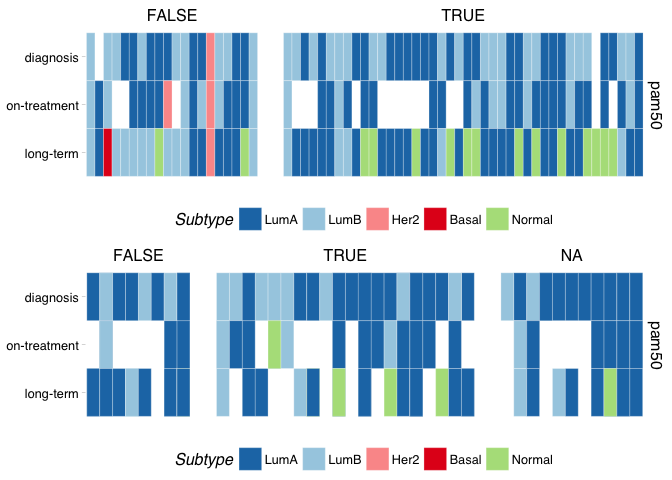
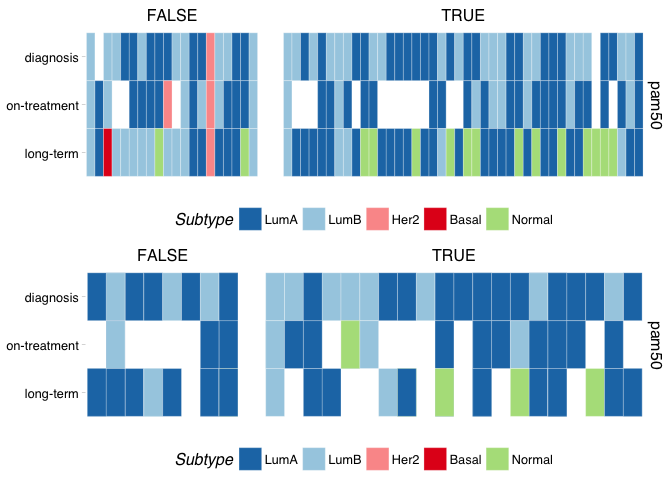
subtyping and unsupervised modifications
mostly just removing NA samples from the analysis

Changed region(s): [[0.125, 0.5, 0.9688, 0.875], [0.8438, 0.5, 0.875, 0.5625]]

diff --git a/georgetown/doc/unsupervised.md b/georgetown/doc/unsupervised.md
@@ -23,8 +23,10 @@ edset$patient_id <- edset$patient.no
 edset$is_dormant <- edset$dorm.group_v4 == "D"
 edset$timepoint <- ifelse(edset$time.point_3cat == 1, "diagnosis", 
                           ifelse(edset$time.point_3cat == 2, "on-treatment", "long-term"))
+edset$days_treated <- edset$days_newinfo
 
-georgeset_affy <- read_rds("../output/final-georgeset-sep-frma-fselect-loess-clin-cb.Rds")
+georgeset_base <- read_rds("../output/final-georgeset-sep-frma-fselect-loess-clin-cb.Rds")
+georgeset_affy <- georgeset_base[, !is.na(georgeset_base$is_dormant)]
 xpr_hgnc <- idReplace(exprs(georgeset_affy), 
                         id.in = "affy_hg_u133_plus_2", 
                         id.out = "hgnc_symbol")
@@ -42,7 +44,7 @@ eset_lst <- list(edset, georgeset)
 
 ``` r
 eset500_lst <- lapply(eset_lst, function(eset){
-                          eset_sub <- eset[, which(eset$timepoint != 'diagnosis')]
+                          eset_sub <- eset[, which(eset$timepoint == 'long-term')]
                           mv500 <- mostVar(exprs(eset_sub), 500) %>% row.names()
                           eset[mv500,]
 })
@@ -51,67 +53,68 @@ do.call(intersect, lapply(eset500_lst, row.names))
 ```
 
     ##   [1] "MUCL1"       "S100P"       "PIP"         "SCGB2A1"     "FOSB"       
-    ##   [6] "SCGB2A2"     "GRIA2"       "CLEC3A"      "HMGCS2"      "NPY1R"      
-    ##  [11] "FOS"         "CEACAM6"     "S100A7"      "TFF1"        "BMPR1B"     
-    ##  [16] "CD24"        "PROM1"       "CLCA2"       "UGT2B28"     "VTCN1"      
-    ##  [21] "HBB"         "FABP4"       "IGKV1D-17"   "LINC00993"   "SPP1"       
-    ##  [26] "SERPINA3"    "PIGR"        "SLITRK6"     "HBA1"        "HBA2"       
-    ##  [31] "THRSP"       "COL11A1"     "APOD"        "ACKR1"       "POTEB"      
-    ##  [36] "POTEB2"      "POTEB3"      "COMP"        "JCHAIN"      "MAOA"       
-    ##  [41] "KIF5C"       "CNTNAP2"     "S100A8"      "PPP1R1A"     "PTX3"       
-    ##  [46] "AGR2"        "CD24P4"      "MFAP4"       "CRYAB"       "CYP4Z1"     
-    ##  [51] "BAMBI"       "EGR3"        "CBLN2"       "UGT2B11"     "LRP2"       
-    ##  [56] "SLC39A6"     "UBD"         "CCL14"       "CCL15-CCL14" "COL10A1"    
-    ##  [61] "CA2"         "DUSP1"       "OLR1"        "GPAM"        "PLEKHS1"    
-    ##  [66] "ENPP5"       "EGR1"        "PLIN1"       "CXCL9"       "PDK4"       
-    ##  [71] "MAOB"        "PEG10"       "COL14A1"     "FHL1"        "ASPN"       
-    ##  [76] "PKIB"        "CDH1"        "CILP"        "TOP2A"       "CYR61"      
-    ##  [81] "IL33"        "KRT5"        "C8orf4"      "MATN3"       "C7"         
-    ##  [86] "SHISA2"      "ZFP36"       "NR2F1"       "HOXC9"       "MUC1"       
-    ##  [91] "TFAP2B"      "SYT13"       "SCNN1A"      "G0S2"        "SCUBE2"     
-    ##  [96] "CCDC80"      "TF"          "TACSTD2"     "MRPS30"      "CD36"       
-    ## [101] "LYPD6B"      "TBC1D9"      "NDNF"        "GLDN"        "PTN"        
-    ## [106] "GHR"         "COL5A2"      "DHRS2"       "NTNG1"       "CHI3L1"     
-    ## [111] "MB"          "UNC5A"       "SLC26A3"     "BEX2"        "SFRP1"      
-    ## [116] "AGR3"        "GABRP"       "CAVIN2"      "LPL"         "NTN4"       
-    ## [121] "SYCP2"       "IRX2"        "MKX"         "GATA3"       "MAL2"       
-    ## [126] "GP2"         "TM4SF18"     "PRLR"        "CLSTN2"      "GRP"        
-    ## [131] "AKR1C3"      "MGP"         "FNDC1"       "CEP55"       "CDR1"       
-    ## [136] "MEOX1"       "EPCAM"       "CARTPT"      "CLDN8"       "STC2"       
-    ## [141] "ANXA3"       "ADAMTS1"     "NAT1"        "TIMP4"       "SOCS2"      
-    ## [146] "GREM1"       "MMP13"       "GAS1"        "RGS1"        "CCL2"       
-    ## [151] "LIFR"        "HMCN1"       "MLPH"        "KCNJ3"       "C15orf48"   
-    ## [156] "MIR147B"     "OGN"         "GJB2"        "POSTN"       "CD300LG"    
-    ## [161] "IER3"        "AOX1"        "GZMK"        "CXCL10"      "AGTR1"      
-    ## [166] "OPRPN"       "ALDH3B2"     "CEACAM5"     "AURKA"       "HOTAIR"     
-    ## [171] "STC1"        "MMP3"        "ANXA1"       "GEM"         "CYP4F8"     
-    ## [176] "FOXA1"       "SPARCL1"     "HLA-DQA2"    "RGS5"        "SYNM"       
-    ## [181] "IFI44L"      "WISP2"       "SCUBE3"      "C1QB"        "CPA3"       
-    ## [186] "SFRP2"       "NDP"         "HLA-DQA1"    "PCSK1"       "MFAP5"
+    ##   [6] "CEACAM6"     "CLEC3A"      "TFF1"        "GRIA2"       "CD24"       
+    ##  [11] "CLCA2"       "SERPINA3"    "KRT14"       "SCGB2A2"     "PROM1"      
+    ##  [16] "BMPR1B"      "SPP1"        "IGKV1D-17"   "FOS"         "UGT2B28"    
+    ##  [21] "FABP4"       "PTX3"        "LINC00993"   "PIGR"        "COL11A1"    
+    ##  [26] "THRSP"       "NPY1R"       "HBB"         "SLITRK6"     "VTCN1"      
+    ##  [31] "HBA1"        "HBA2"        "PPP1R1A"     "AGR2"        "COMP"       
+    ##  [36] "ACKR1"       "POTEB"       "POTEB2"      "POTEB3"      "OLR1"       
+    ##  [41] "MAOA"        "CFD"         "JCHAIN"      "CYP4Z1"      "CD177"      
+    ##  [46] "KRT5"        "CD24P4"      "CRYAB"       "PLIN1"       "S100A8"     
+    ##  [51] "LRP2"        "GPAM"        "COL10A1"     "ELN"         "CCL14"      
+    ##  [56] "CCL15-CCL14" "PDK4"        "COL14A1"     "PLEKHS1"     "CXCL9"      
+    ##  [61] "TOP2A"       "RERGL"       "NR2F1"       "PKIB"        "PCOLCE2"    
+    ##  [66] "HOXC9"       "FHL1"        "MFAP4"       "SYT13"       "ENPP5"      
+    ##  [71] "IL33"        "G0S2"        "UGT2B11"     "FAM3B"       "PEG10"      
+    ##  [76] "CA2"         "CILP"        "GABRP"       "SERPINE1"    "C7"         
+    ##  [81] "SAA1"        "MB"          "MUC1"        "SCNN1A"      "CD36"       
+    ##  [86] "C8orf4"      "EGR3"        "TACSTD2"     "LPL"         "CARTPT"     
+    ##  [91] "DUSP1"       "LRRN1"       "CXADR"       "ZFP36"       "GLDN"       
+    ##  [96] "CEP55"       "SFRP1"       "FNDC1"       "CLDN8"       "TFAP2B"     
+    ## [101] "CAVIN2"      "CCDC80"      "PTN"         "EPCAM"       "CYR61"      
+    ## [106] "BEX2"        "ADAMTS1"     "SLC26A3"     "AURKA"       "MLPH"       
+    ## [111] "TF"          "MAL2"        "SYCP2"       "GHR"         "TIMP4"      
+    ## [116] "CXCL2"       "CBLN2"       "SYNM"        "CD300LG"     "AGR3"       
+    ## [121] "OPRPN"       "MEOX1"       "GATA3"       "UNC5A"       "GP2"        
+    ## [126] "AZGP1"       "KCNJ3"       "PRLR"        "LIFR"        "SCUBE2"     
+    ## [131] "STC1"        "NDNF"        "HSPB8"       "FOXA1"       "GRP"        
+    ## [136] "CHI3L1"      "PLA2G2A"     "MRPS30"      "DHRS2"       "AKR1C3"     
+    ## [141] "CCL28"       "MMP13"       "HLA-DQA2"    "HMCN1"       "CYP4F8"     
+    ## [146] "TBC1D9"      "PCSK1"       "SHISA2"      "LYPD6B"      "ANXA3"      
+    ## [151] "NAT1"        "C15orf48"    "MIR147B"     "SEMA3G"      "CCL2"       
+    ## [156] "MMP3"        "EGR1"        "PCK1"        "GEM"         "MGP"        
+    ## [161] "MEST"        "AOX1"        "MKX"         "GJB2"        "CCL8"       
+    ## [166] "HLA-DQA1"    "TM4SF18"     "RASEF"       "POU2AF1"     "OLFM4"      
+    ## [171] "MFAP5"       "CYP2B7P"     "ALDH3B2"     "STC2"        "INHBA"      
+    ## [176] "GAS1"        "TC2N"        "AGTR1"       "C1QB"        "ANXA1"      
+    ## [181] "CIDEC"       "CEACAM5"     "NDP"
 
 #### as well as how well the are able to cluster patients based on dormancy status
 
 ``` r
 plotMDS <- function(eset, time_point = "all", title = ""){
-           if(time_point != "all"){
-               eset_in = eset[, which(eset$timepoint == time_point)]
+    if(time_point[[1]] != "all"){
+               eset_in = eset[, which(eset$timepoint %in% time_point)]
            } else {
                eset_in = eset 
            }
            arng_dfr <- mdsArrange(exprs(eset_in))
            mrg_dfr <- merge(arng_dfr, pData(eset_in), by.x = 'ids', by.y = 'xpr_id')
-           p_mds <- ggplot(mrg_dfr, aes(x = x, y = y, colour = is_dormant)) + 
+
+           p_mds <- ggplot(mrg_dfr, aes(x = x, y = y, colour = is_dormant, size = days_treated)) + 
                geom_point() + 
                labs(title = title,
                     subtitle = paste0("x separation p = ", 
                                       wilcox.test(x~is_dormant, data = mrg_dfr)$p.value)) +
                theme_pander() +
-               theme(legend.position = 'none')
+               theme(legend.position = 'top')
+
            p_box <- ggplot(mrg_dfr, aes(x = is_dormant, y = x, fill = is_dormant)) + 
                geom_boxplot(notch = TRUE) + 
                coord_flip() + 
                theme_pander() + 
-               theme(legend.position = 'bottom')
+               theme(legend.position = 'none')
            plot_grid(p_mds, p_box, rel_heights = c(3, 1), ncol = 1)
 }
 ```
@@ -123,7 +126,16 @@ lapply(eset500_lst, function(x) plotMDS(x, 'all', 'All Samples')) %>%
     plot_grid(plotlist = ., labels = c("Edinburgh", "Georgetown"), scale = 0.9)
 ```
 
-<img src="unsupervised_files/figure-markdown_github-ascii_identifiers/unnamed-chunk-6-1.png" style="display: block; margin: auto;" />
+<img src="unsupervised_files/figure-markdown_github-ascii_identifiers/unnamed-chunk-7-1.png" style="display: block; margin: auto;" />
+
+### Treated samples
+
+``` r
+lapply(eset500_lst, function(x) plotMDS(x, c('on-treatment', 'long-term'), 'Treated Samples')) %>% 
+    plot_grid(plotlist = ., labels = c("Edinburgh", "Georgetown"), scale = 0.9)
+```
+
+<img src="unsupervised_files/figure-markdown_github-ascii_identifiers/unnamed-chunk-8-1.png" style="display: block; margin: auto;" />
 
 ### Long-term samples
 
@@ -132,7 +144,7 @@ lapply(eset500_lst, function(x) plotMDS(x, 'long-term', 'Long-term Samples')) %>
     plot_grid(plotlist = ., labels = c("Edinburgh", "Georgetown"), scale = 0.9)
 ```
 
-<img src="unsupervised_files/figure-markdown_github-ascii_identifiers/unnamed-chunk-7-1.png" style="display: block; margin: auto;" />
+<img src="unsupervised_files/figure-markdown_github-ascii_identifiers/unnamed-chunk-9-1.png" style="display: block; margin: auto;" />
 
 ### On-treatment samples
 
@@ -141,7 +153,7 @@ lapply(eset500_lst, function(x) plotMDS(x, 'on-treatment', 'On-treatment Samples
     plot_grid(plotlist = ., labels = c("Edinburgh", "Georgetown"), scale = 0.9)
 ```
 
-<img src="unsupervised_files/figure-markdown_github-ascii_identifiers/unnamed-chunk-8-1.png" style="display: block; margin: auto;" />
+<img src="unsupervised_files/figure-markdown_github-ascii_identifiers/unnamed-chunk-10-1.png" style="display: block; margin: auto;" />
 
 ### Diagnostic samples
 
@@ -150,4 +162,4 @@ lapply(eset500_lst, function(x) plotMDS(x, 'diagnosis', 'Diagnostic Samples')) %
     plot_grid(plotlist = ., labels = c("Edinburgh", "Georgetown"), scale = 0.9)
 ```
 
-<img src="unsupervised_files/figure-markdown_github-ascii_identifiers/unnamed-chunk-9-1.png" style="display: block; margin: auto;" />
+<img src="unsupervised_files/figure-markdown_github-ascii_identifiers/unnamed-chunk-11-1.png" style="display: block; margin: auto;" />

diff --git a/georgetown/doc/subtyping.md b/georgetown/doc/subtyping.md
@@ -21,7 +21,7 @@ edset$xpr_id <- edset$ID_D120days_3cat
 edset$patient_id <- edset$patient.no
 edset$is_dormant <- edset$dorm.group_v4 == "D"
 georgeset_base <- read_rds("../output/final-georgeset-sep-frma-fselect-loess-clin-cb.Rds")
-georgeset <- georgeset_base[, !is.na(georgeset_base$timepoint)]
+georgeset <- georgeset_base[, !is.na(georgeset_base$timepoint) & !is.na(georgeset_base$is_dormant)]
 
 eset_lst <- list(edset, georgeset)
 ```
